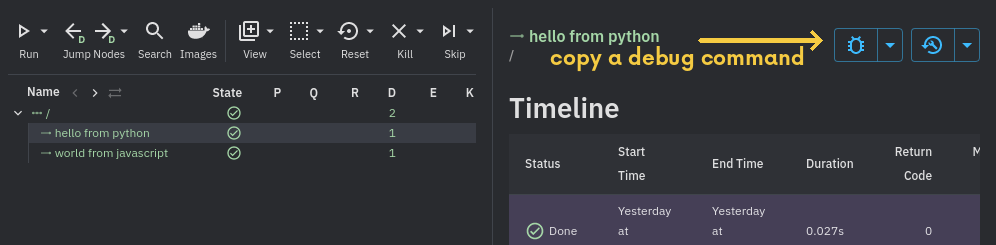
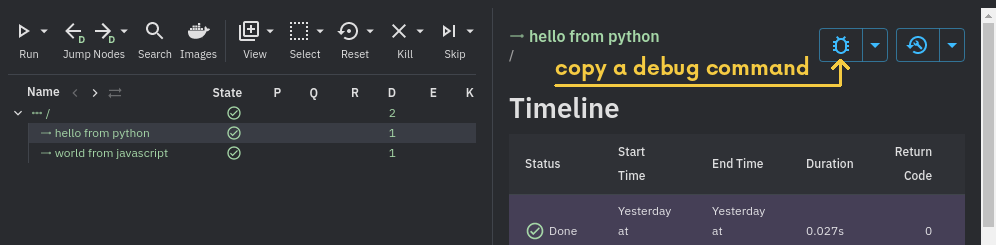
png.arrow now supports 2+ point paths

Changed region(s): [[0.5291, 0.0286, 1.0, 1.0]]

diff --git a/co_snap/png.py b/co_snap/png.py
@@ -3,6 +3,7 @@ from Screenshot import Screenshot_Clipping
 from pathlib import Path
 import IPython
 import cv2
+from math import sqrt
 
 
 def screenshot_element(driver, element, file_name):
@@ -27,15 +28,32 @@ def top_only(orig_file, new_height, new_file):
 
 
 color = (66, 203, 245)  # BGR
-arrow_thickness = 3
+arrow_thickness = 2
 font = ImageFont.truetype(str(Path(__file__).parents[0] / "Now-Bold.otf"), 25)
+arrowhead_size = 12
 
 
-def arrow_from_to(orig_file, from_xy, to_xy, new_file):
+def arrow(orig_file, path, new_file):
+
+    if len(path) < 2:
+        raise ValueError("arrow path must contain at least two points")
+
     image = cv2.imread(orig_file)
-    image = cv2.arrowedLine(image, from_xy, to_xy, color, arrow_thickness)
-    cv2.imwrite(new_file, image)
+    for (from_xy, to_xy) in zip(path[:-2], path[1:-1]):
+        print(f"leg from {from_xy} -> {to_xy}")
+        image = cv2.line(image, from_xy, to_xy, color, arrow_thickness)
+
+    from_xy = path[-2]
+    to_xy = path[-1]
+
+    # special thanks to Pythagoras, Euclid, and Descartes
+    arrow_length = sqrt((to_xy[0] - from_xy[0])**2 + (to_xy[1] - from_xy[1])**2)
+
+    tip_length_ratio = arrowhead_size / arrow_length
+    image = cv2.arrowedLine(image, from_xy, to_xy, color, arrow_thickness, tipLength = tip_length_ratio  )
     print(f"arrow from {from_xy} -> {to_xy}")
+
+    cv2.imwrite(new_file, image)
 
 
 def text_at(orig_file, text, at_xy, new_file):

diff --git a/sample.py b/sample.py
@@ -25,5 +25,5 @@ step = [ "sample.guts.partial.png",
 middle = root.find_element_by_xpath(xpath.two_columns)
 png.screenshot_element(dom, middle, step[0])
 png.top_only(step[0], 245, step[1])
-png.arrow_from_to(step[1], (700,40), (820, 40), step[2])
-png.text_at(step[2], "copy a debug command", (550,40), step[3])
+png.arrow(step[1], [(555,85), (840,85), (840, 60)], step[2])
+png.text_at(step[2], "copy a debug command", (555,50), step[3])
